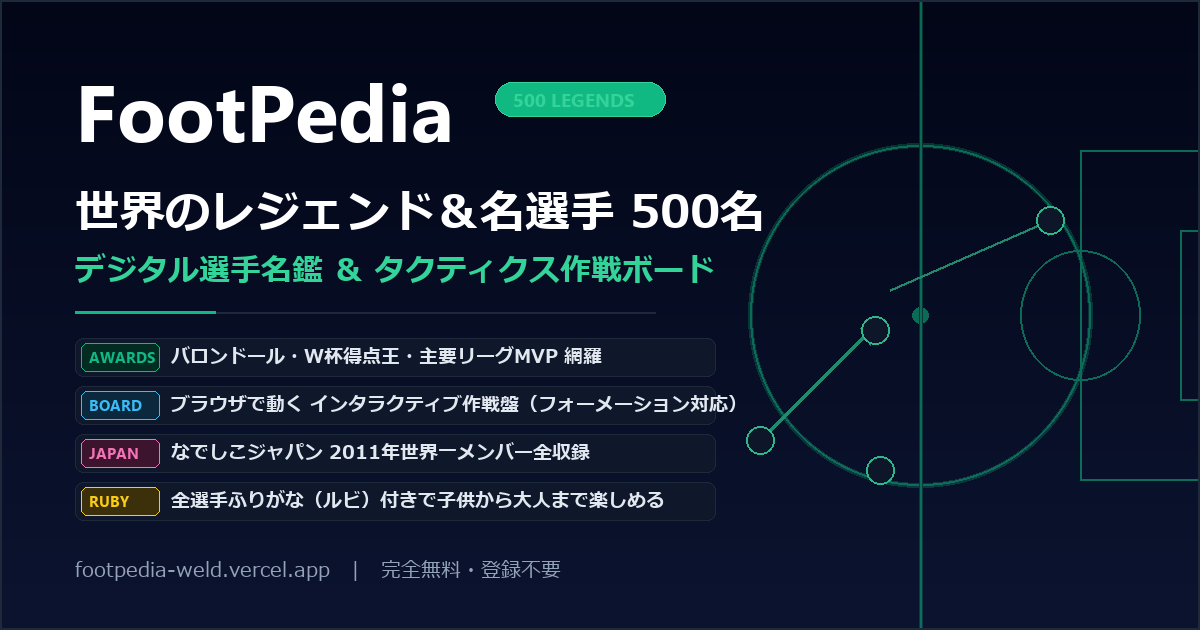
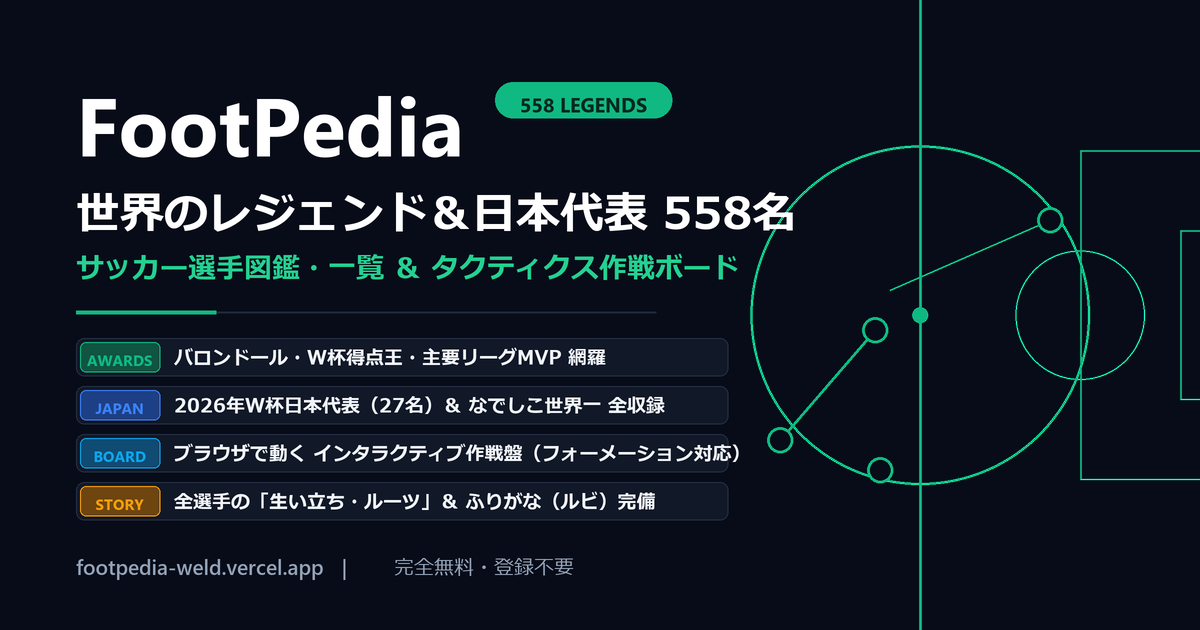
Update OGP image to 558 legends & WC2026 Japan edition with cache busting

diff --git a/src/app/layout.tsx b/src/app/layout.tsx
@@ -28,7 +28,7 @@ export const metadata: Metadata = {
     siteName: "FootPedia（フットペディア）",
     images: [
       {
-        url: "/ogp.png",
+        url: "/ogp.png?v=558",
         width: 1200,
         height: 630,
         alt: "FootPedia（フットペディア）- サッカー選手図鑑・歴代サッカー選手一覧＆作戦ボード",
@@ -41,7 +41,7 @@ export const metadata: Metadata = {
     card: "summary_large_image",
     title: "FootPedia（フットペディア）| サッカー選手図鑑・歴代サッカー選手一覧（558名名鑑＆作戦盤）",
     description: "海外・日本の歴代サッカー選手一覧（558名）を網羅したWebサッカー選手図鑑＆無料サッカー作戦盤アプリ",
-    images: ["/ogp.png"],
+    images: ["/ogp.png?v=558"],
   },
   verification: {
     google: "PWyl9wiPWp7WS5DrfHowmNdz6buiN8XAjaBnfAn-Ulg",

diff --git a/src/app/page.tsx b/src/app/page.tsx
@@ -16,13 +16,13 @@ export const metadata: Metadata = {
     description: '海外・日本の歴代サッカー選手一覧（558名）を網羅したWebサッカー選手図鑑＆ブラウザで動く無料作戦盤アプリ',
     url: 'https://footpedia-weld.vercel.app',
     type: 'website',
-    images: ['/ogp.png'],
+    images: ['/ogp.png?v=558'],
   },
   twitter: {
     card: 'summary_large_image',
     title: 'FootPedia（フットペディア）| サッカー選手図鑑・歴代サッカー選手一覧（558名名鑑＆作戦盤）',
     description: '海外・日本の歴代サッカー選手一覧（558名）を網羅したWebサッカー選手図鑑＆ブラウザで動く無料作戦盤アプリ',
-    images: ['/ogp.png'],
+    images: ['/ogp.png?v=558'],
   },
 };
 

diff --git a/src/app/players/[id]/page.tsx b/src/app/players/[id]/page.tsx
@@ -120,13 +120,13 @@ export async function generateMetadata({
               alt: `${player.name_ja}（${player.name_en}）`,
             },
           ]
-        : ['/ogp.png'],
+        : ['/ogp.png?v=558'],
     },
     twitter: {
       card: 'summary_large_image',
       title: `${title} | FootPedia`,
       description,
-      images: player.image ? [player.image] : ['/ogp.png'],
+      images: player.image ? [player.image] : ['/ogp.png?v=558'],
     },
   };
 }
